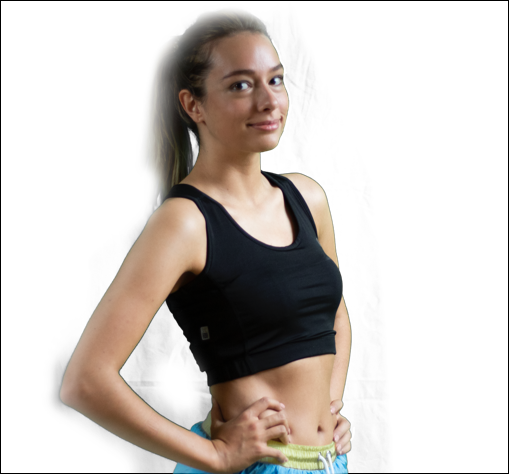
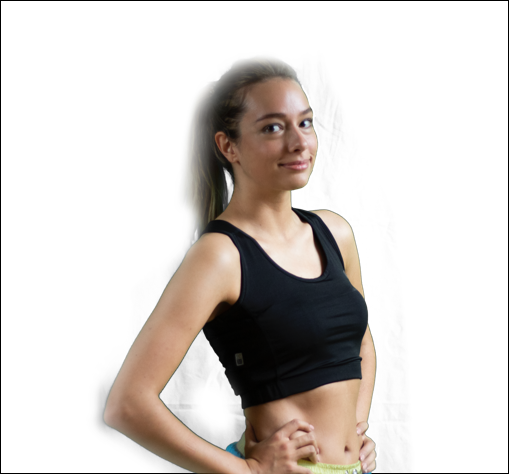
photos added

diff --git a/client/src/components/SingleWorkout.vue b/client/src/components/SingleWorkout.vue
@@ -120,9 +120,9 @@ export default {
 
 .bg-image {
     left: -2;
-    width: 160px;
-    margin-top: 0.3rem;
-    margin-left: -6rem;
+    width: 190px;
+    margin-top: -1rem;
+    margin-left: -4rem;
     z-index: -1;
     display: relative;
 }
